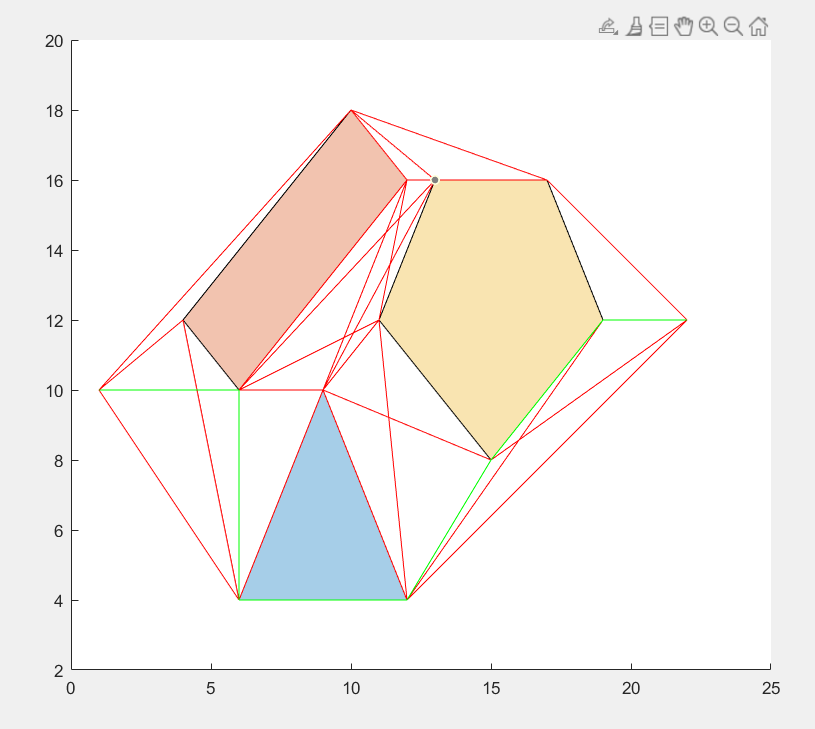
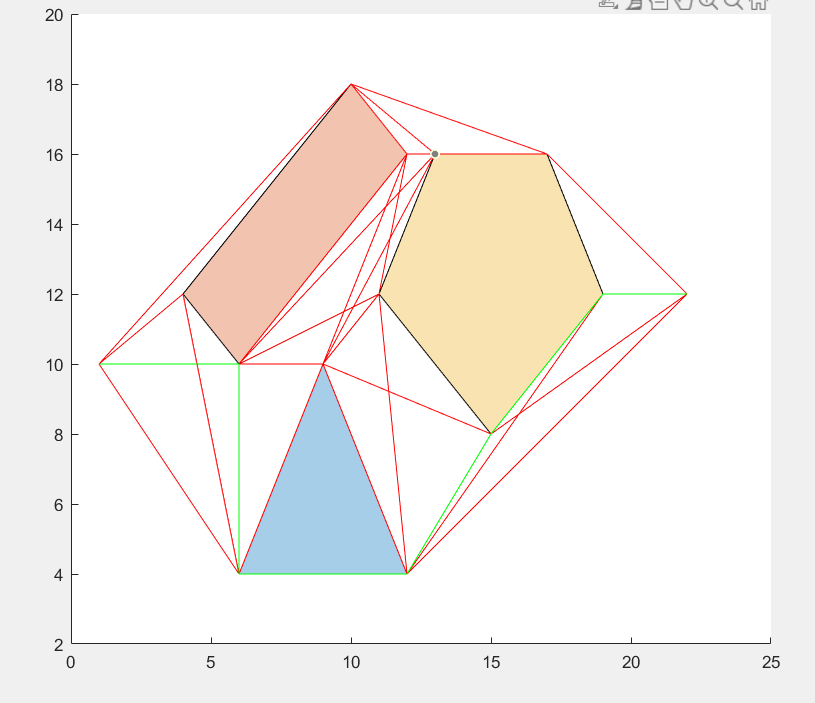
Add a gallery of figures and simulation clips to the README

diff --git a/README.md b/README.md
@@ -2,6 +2,25 @@
 
 MATLAB/Simulink homework from an undergraduate Robotics course (Sharif University of Technology), covering rigid-body kinematics through motion planning for serial manipulators and mobile robots.
 
+## Gallery
+
+<table>
+<tr>
+<td width="50%"><img src="HW1/code/figure.png" width="100%"/><br/><sub><b>HW1</b> — rigid-body transform problem setup</sub></td>
+<td width="50%"><img src="HW3/figures/fig1.png" width="100%"/><br/><sub><b>HW3</b> — CAD model of the RRP manipulator</sub></td>
+</tr>
+<tr>
+<td width="50%"><img src="HW6/figures/fig2.png" width="100%"/><br/><sub><b>HW6</b> — potential-field path threading between obstacles</sub></td>
+<td width="50%"><img src="HW7/figures/fig3.png" width="100%"/><br/><sub><b>HW7</b> — shortest path found via Dijkstra's algorithm</sub></td>
+</tr>
+</table>
+
+**HW5 simulation clips** (trajectory tracking, two scenarios):
+
+<video src="HW5/model/HW5_Q1.mp4" controls width="420"></video> <video src="HW5/model/HW5_Q2.mp4" controls width="420"></video>
+
+*(if the players above don't render, the clips are at [`HW5/model/HW5_Q1.mp4`](HW5/model/HW5_Q1.mp4) and [`HW5/model/HW5_Q2.mp4`](HW5/model/HW5_Q2.mp4))*
+
 Each `HW#/` folder contains:
 - `assignment.pdf` — the problem statement
 - `report_fa.pdf` — my original written solution and analysis (Persian)
